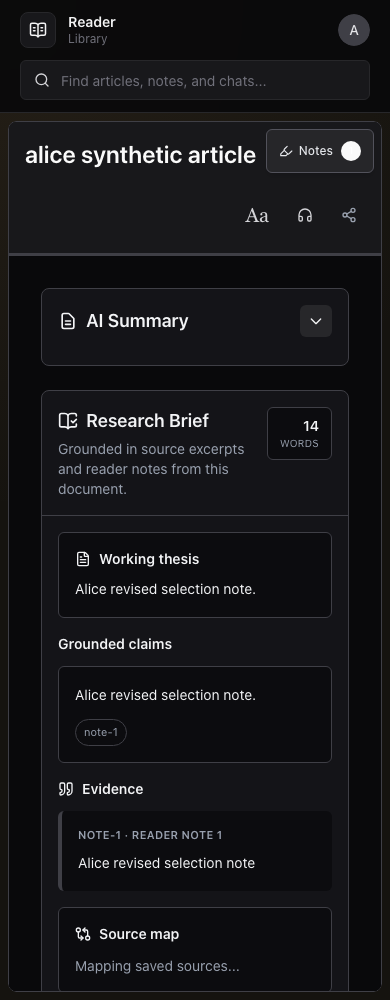
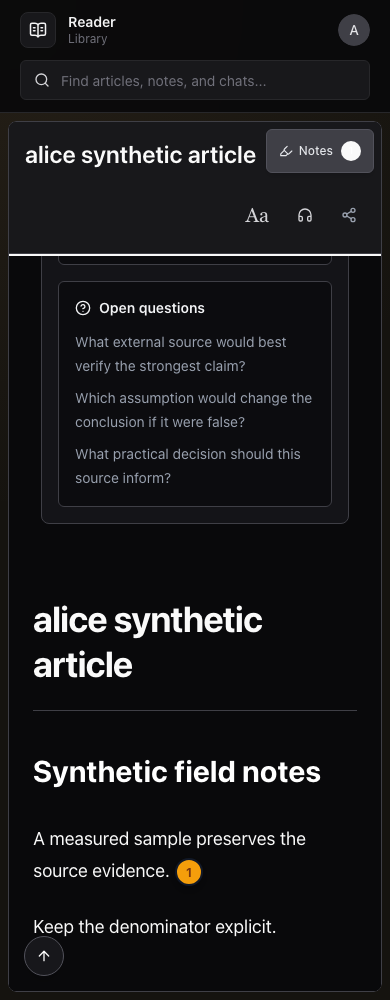
test(reader): require visible article text in browser evidence

diff --git a/scripts/qualify-account-article.test.ts b/scripts/qualify-account-article.test.ts
@@ -101,6 +101,8 @@ test('article reopen uses current persisted annotations instead of overwriting t
 });
 
 async function addSelectedNote(page: Page) {
+  await page.locator('#synthetic-evidence').scrollIntoViewIfNeeded();
+  await browserExpect(page.locator('#synthetic-evidence')).toBeInViewport();
   await page.locator('#synthetic-evidence').evaluate((element) => {
     const range = document.createRange();
     range.selectNodeContents(element);
@@ -204,6 +206,8 @@ test('account article selection notes survive retry, edit, reload and delete wit
       page.getByRole('button', { name: 'Alice revised selection note', exact: true })
     ).toBeVisible();
     mkdirSync('.fleet/evidence/account-article', { recursive: true });
+    await page.locator('#synthetic-evidence').scrollIntoViewIfNeeded();
+    await browserExpect(page.locator('#synthetic-evidence')).toBeInViewport();
     await page.screenshot({
       path: '.fleet/evidence/account-article/after-1440.png',
       fullPage: true,
@@ -219,7 +223,8 @@ test('account article selection notes survive retry, edit, reload and delete wit
       animations: 'disabled',
     });
     await page.getByRole('button', { name: 'Close sidebar', exact: true }).click();
-    await browserExpect(page.locator('#synthetic-evidence')).toBeVisible();
+    await page.locator('#synthetic-evidence').scrollIntoViewIfNeeded();
+    await browserExpect(page.locator('#synthetic-evidence')).toBeInViewport();
     await page.screenshot({
       path: '.fleet/evidence/account-article/read-390.png',
       fullPage: true,
